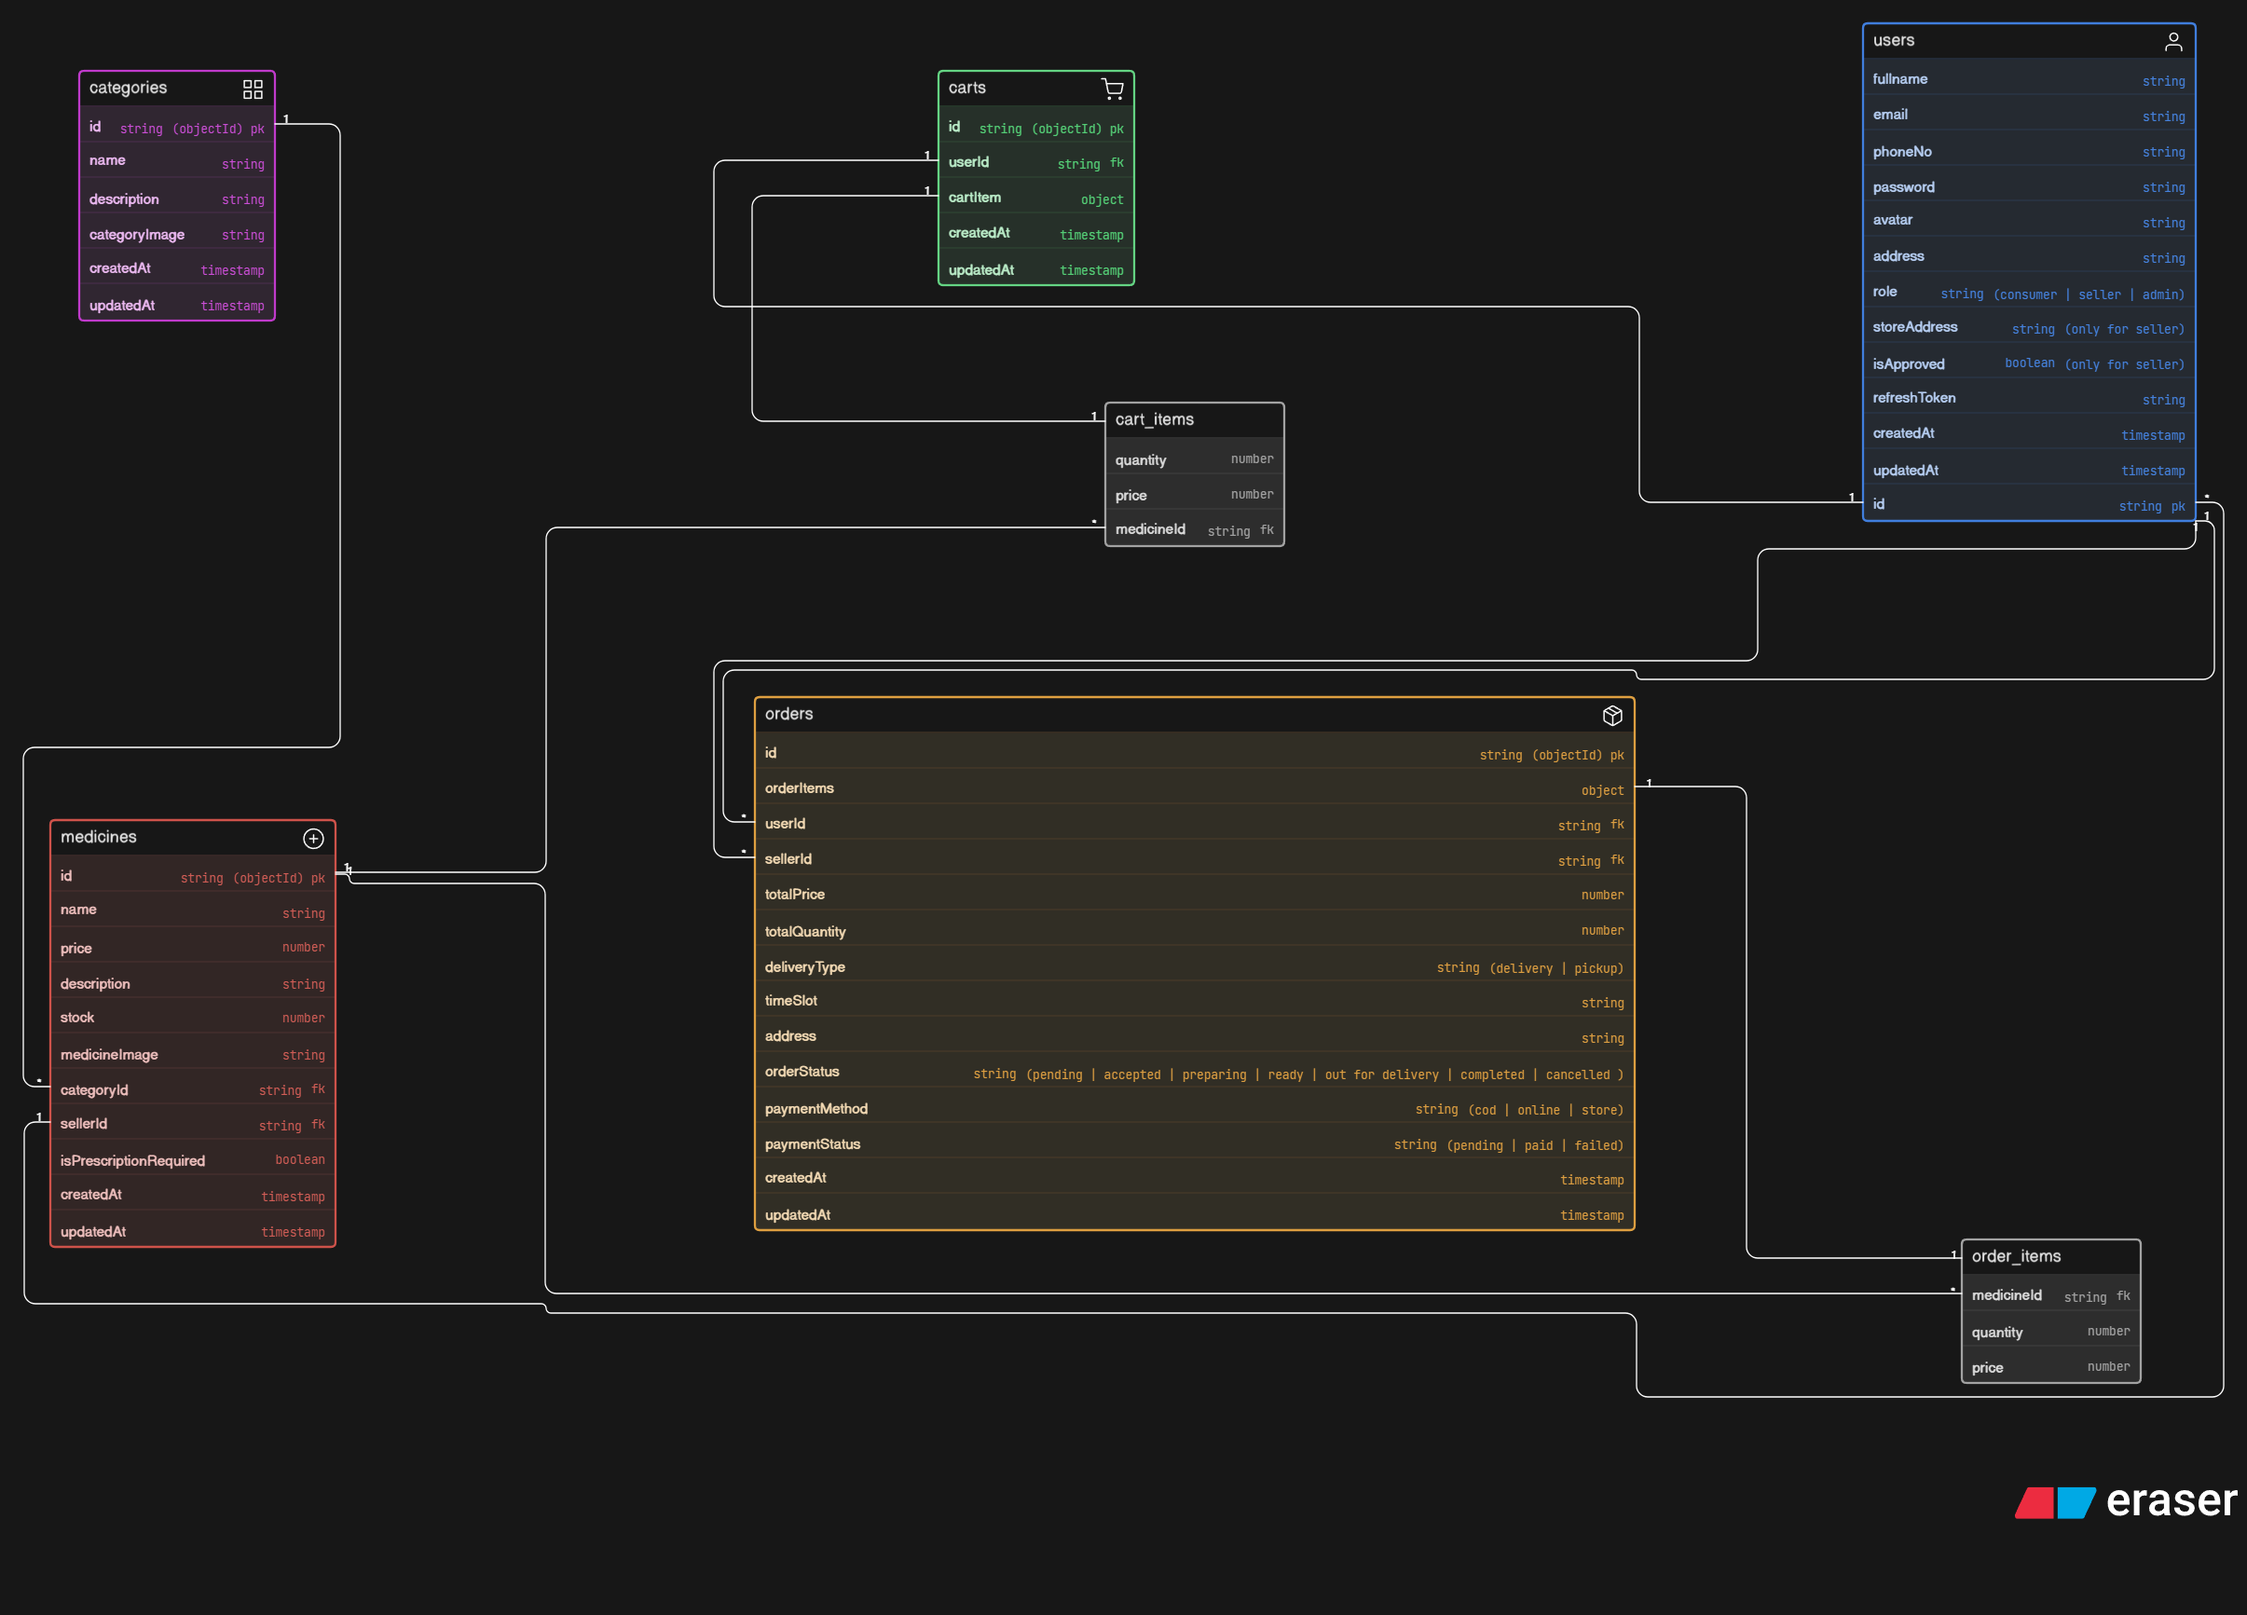
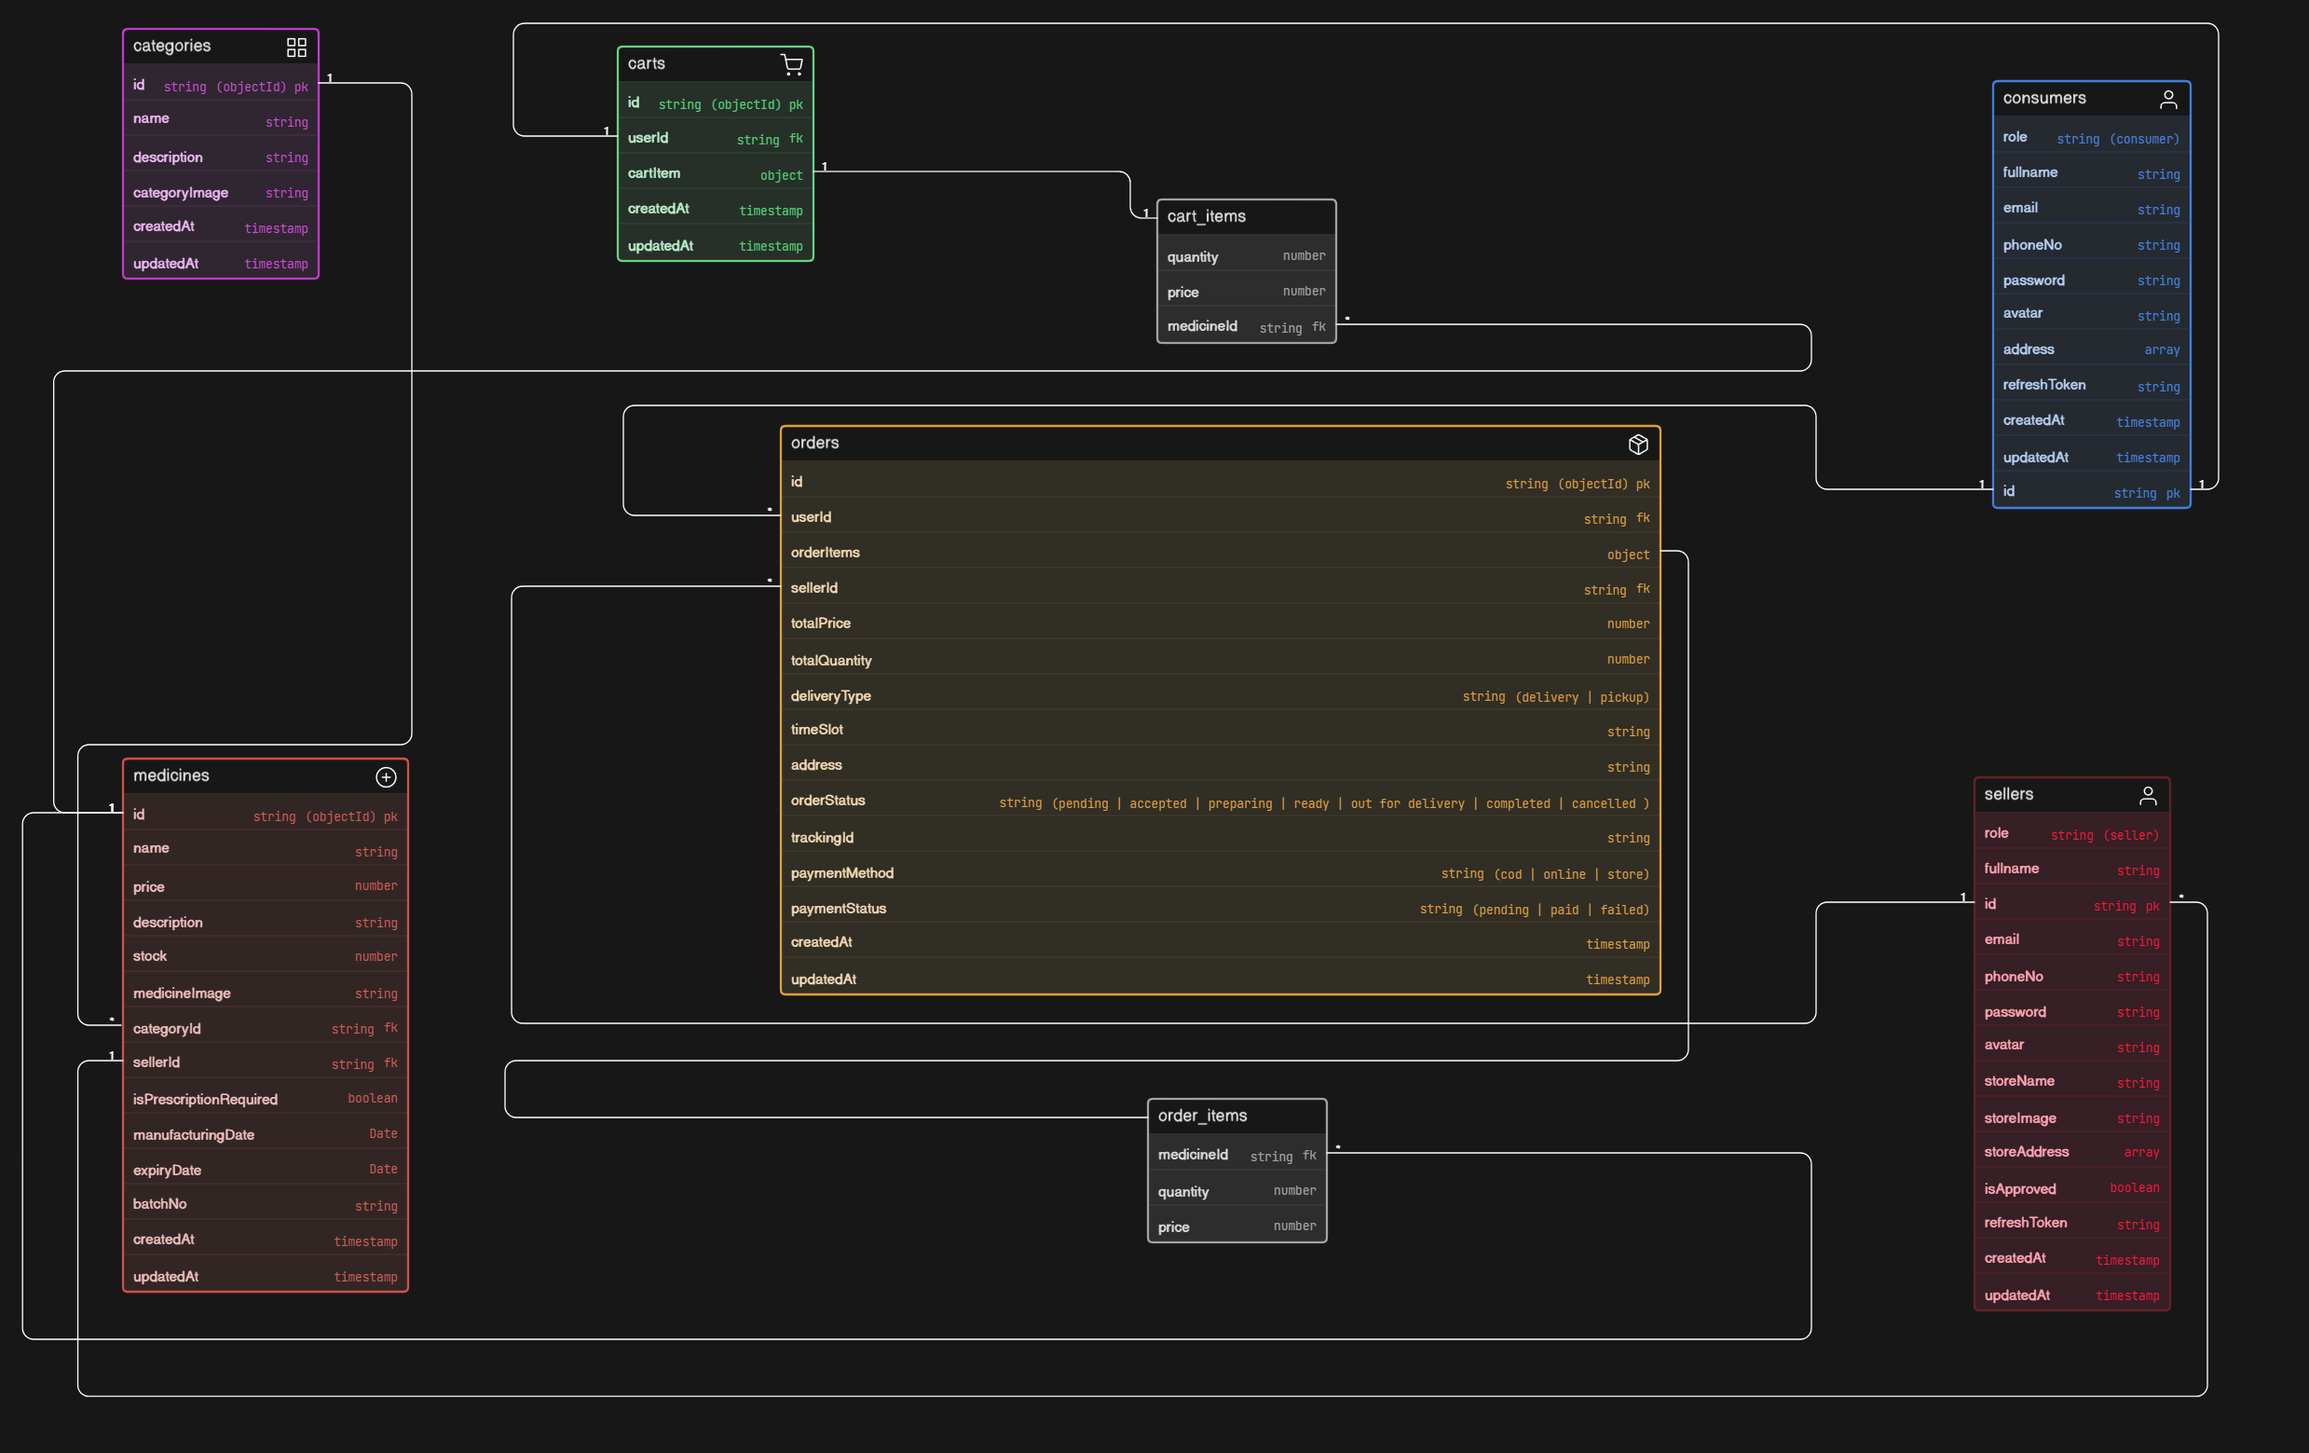
Implement user and seller registration functionality; add routes and models and datamodel updation

diff --git a/src/models/consumer.model.js b/src/models/consumer.model.js
@@ -2,18 +2,21 @@ import mongoose, { Schema } from "mongoose"
 import bcrypt from "bcrypt"
 import jwt from "jsonwebtoken"
 
-const userSchema = new Schema({
+const consumerSchema = new Schema({
     role: {
         type: String,
         required: true,
-        enum: ["consumer", "seller", "admin"]
+        enum: ["consumer"],
+        default:"consumer"
     },
+
     fullname: {
         type: String,
         required: true,
         trim: true,
         index: true
     },
+
     email: {
         type: String,
         required: true,
@@ -21,80 +24,79 @@ const userSchema = new Schema({
         lowercase: true,
         trim: true
     },
+
     phoneNo: {
         type: String,
         required: true,
     },
+
     password: {
         type: String,
         required: true,
     },
+
     avatar: {
+        type: String,
+        default : ""
+    },
+
+    refreshToken: {
         type: String
     },
     addresses: [
         {
-            type:{
-                type:String,
-                enum:["home" , "office" , "store"]
+            type: {
+                type: String,
+                enum: ["home", "office", "rent"]
             },
             street: String,
             landmark: String,
             city: String,
             state: String,
             pincode: Number,
-            isDefault: Boolean
+            isDefault: {
+                type: Boolean,
+                default: false
+            }
         }
     ],
-    isStoreApproved: {
-        type: Boolean,
-        default: false
-    },
-    refreshToken: {
-        type: String
-    }
 
 }, { timestamps: true })
 
-userSchema.pre("save" , async function(next){
-    if (!this.isModified("password")) return next()
-    this.password = await bcrypt.hash(this.password , 10)
-    next();
-    
+consumerSchema.pre("save" , async function(){
+    if (!this.isModified("password")) return 
+    this.password = await bcrypt.hash(this.password , 10)   
 })
 
-userSchema.methods.isPasswordCorrect = async function(password){
+consumerSchema.methods.isPasswordCorrect = async function(password){
     return await bcrypt.compare(password , this.password)
 }
 
-userSchema.methods.generateAccessToken = function(){
-    return jwt.sign(
+consumerSchema.methods.generateAccessToken= function(){
+    return jwt.sign(                               
         {
             _id:this._id,
             role:this.role,
-            fullname:this.fullname,
-            email:this.email
+            email:this.email,
+            username:this.username,
+            fullName:this.fullName
         },
-        process.env.ACCESS_TOKEN_SECRET,
+        process.env.ACCESS_TOKEN_SECRET,  
         {
             expiresIn:process.env.ACCESS_TOKEN_EXPIRY
         }
-        
     )
 }
 
-userSchema.methods.generateRefreshToken = function(){
+consumerSchema.methods.generateRefreshToken= function(){
     return jwt.sign(
         {
-            _id:this._id,
-            role:this.role,
+            _id:this._id,                      
         },
         process.env.REFRESH_TOKEN_SECRET,
         {
             expiresIn:process.env.REFRESH_TOKEN_EXPIRY
         }
-        
     )
 }
-
-export const User = mongoose.model("Users", userSchema)
+export const Consumer = mongoose.model("Consumer", consumerSchema)

diff --git a/src/models/seller.model.js b/src/models/seller.model.js
@@ -1,0 +1,113 @@
+import mongoose, { Schema } from "mongoose"
+import bcrypt from "bcrypt"
+import jwt from "jsonwebtoken"
+
+const sellerSchema = new Schema({
+    role: {
+        type: String,
+        required: true,
+        enum: ["seller"],
+        default:"seller"
+    },
+
+    fullname: {
+        type: String,
+        required: true,
+        trim: true,
+        index: true
+    },
+
+    email: {
+        type: String,
+        required: true,
+        unique: true,
+        lowercase: true,
+        trim: true
+    },
+
+    phoneNo: {
+        type: String,
+        required: true,
+    },
+
+    password: {
+        type: String,
+        required: true,
+    },
+
+    avatar: {
+        type: String,
+        default:""
+    },
+
+    storeName: {
+    type: String,
+    required: true,
+    trim: true,
+    index: true
+    },
+
+    storeImage: {
+    type: String,   
+    default: ""
+    },
+
+    storeAddress: [
+        {
+        street: String,
+        landmark: String,
+        city: String,
+        state: String,
+        pincode: Number
+        } 
+    ],
+
+    isApproved: {
+        type: Boolean,
+        default: false
+    },
+
+    refreshToken: {
+        type: String
+    },
+
+}, { timestamps: true })
+
+sellerSchema.pre("save" , async function(){
+    if (!this.isModified("password")) return 
+    this.password = await bcrypt.hash(this.password , 10)    
+})
+
+sellerSchema.methods.isPasswordCorrect = async function(password){
+    return await bcrypt.compare(password , this.password)
+}
+
+sellerSchema.methods.generateAccessToken= function(){
+    return jwt.sign(                               
+        {
+            _id:this._id,
+            role:this.role,
+            email:this.email,
+            username:this.username,
+            fullName:this.fullName
+        },
+        process.env.ACCESS_TOKEN_SECRET,  
+        {
+            expiresIn:process.env.ACCESS_TOKEN_EXPIRY
+        }
+    )
+}
+
+sellerSchema.methods.generateRefreshToken= function(){
+    return jwt.sign(
+        {
+            _id:this._id,                      
+        },
+        process.env.REFRESH_TOKEN_SECRET,
+        {
+            expiresIn:process.env.REFRESH_TOKEN_EXPIRY
+        }
+    )
+}
+
+export const Seller = mongoose.model("Seller", sellerSchema)

diff --git a/src/controllers/auth.controller.js b/src/controllers/auth.controller.js
@@ -1,0 +1,62 @@
+import { Consumer } from "../models/consumer.model.js";
+import {Seller} from "../models/seller.model.js"
+import { ApiError } from "../utils/ApiError.js";
+import { ApiResponse } from "../utils/ApiResponse.js";
+import { asyncHandler } from "../utils/AsyncHandler.js";
+
+const registerUser= (Model) => asyncHandler(async(req,res)=>{
+    /*Algorithm:-
+    take all required fields from consumer
+    validate validation
+    check if user existed in db: email , phoneNo
+    create userConsumer Object
+    remove sensitive information like password and unnecessary information related to consumer
+    check user creation 
+    return response 
+    */
+
+    const {fullname , email , phoneNo , password} = req.body
+    console.log(req.body);
+
+    if(
+        [fullname , email , phoneNo , password ].some(
+            (field)=> (typeof field !== "string" || field?.trim() === "")
+        
+        )
+    ){
+        throw new ApiError(400 , "All Fields Are Required")
+    }
+
+    const existedUser = await Model.findOne({
+        $or:[{email} , {phoneNo}]
+    })
+
+    if(existedUser){
+        throw new ApiError(409 , "User with Email or Phoneno Already Exists ")
+    }
+
+    const user = await Model.create({
+        fullname,
+        email,
+        phoneNo,
+        password,
+    
+    })
+
+    const createdUser = await Model.findById(user._id).select(
+        "-password -refreshToken -__v"
+    )
+
+    if(!createdUser){
+        throw new ApiError(500 , "Something went wrong while registering the user")
+    }
+
+    res
+    .status(201)
+    .json(
+        new ApiResponse(201 , createdUser , "User Register SuccessFully")
+    )
+    
+})
+
+export {registerUser}

diff --git a/src/app.js b/src/app.js
@@ -17,4 +17,17 @@ app.use(express.json({limit:"16kb"}))
 app.use(express.urlencoded({extended:true , limit:"16kb"}))
 app.use(express.static("public"))
 
+
+
+// import routes
+import consumerRoute from "./routes/consumer.routes.js"
+import sellerRoute from "./routes/seller.routes.js"
+
+
+
+
+// routes declaration
+app.use("/api/v1/consumer" , consumerRoute )
+app.use("/api/v1/seller" , sellerRoute )
+
 export {app}

diff --git a/src/routes/consumer.routes.js b/src/routes/consumer.routes.js
@@ -1,0 +1,12 @@
+import {Router} from "express"
+import { registerUser } from "../controllers/auth.controller.js"
+import { Consumer } from "../models/consumer.model.js"
+
+const router = Router()
+
+//register route
+router.route("/register").post(registerUser(Consumer))
+
+//login route
+
+export default router

diff --git a/src/routes/seller.routes.js b/src/routes/seller.routes.js
@@ -1,0 +1,11 @@
+import {Router} from "express"
+import { registerUser } from "../controllers/auth.controller.js"
+import { Seller } from "../models/seller.model.js"
+const router = Router()
+
+//register route
+router.route("/register").post(registerUser(Seller))
+
+//login route
+
+export default router
